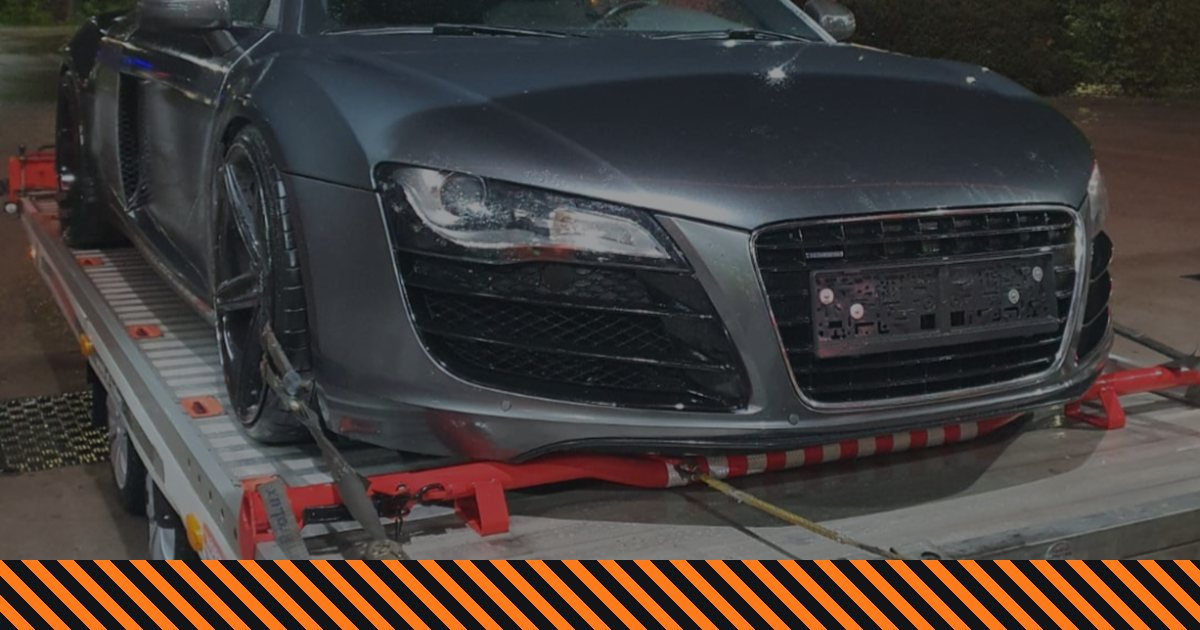
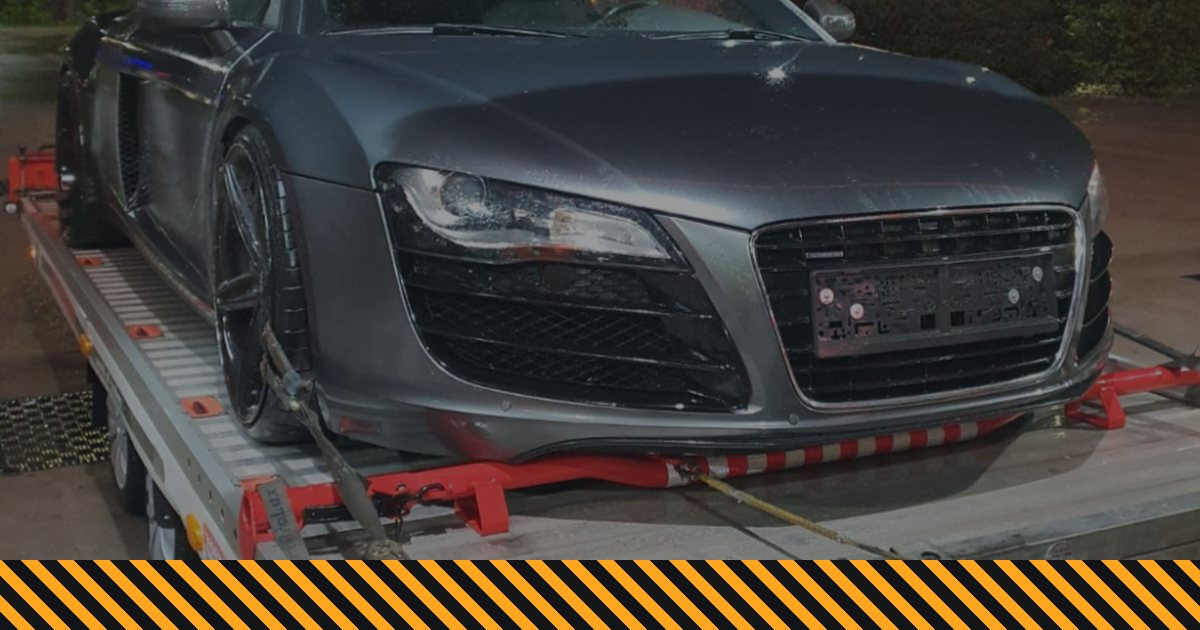
Rundumleuchte und Sirene entfernt, Orange heller und gelblicher

Changed region(s): [[0.0, 0.8746, 1.0, 1.0]]

diff --git a/css/base.css b/css/base.css
@@ -1,6 +1,6 @@
 /* ==========================================================================
    JS-Cartrans · Stylesheet
-   Richtung „Nachtschicht“: Asphalt, Kommunalorange, Reflexweiß.
+   Richtung „Nachtschicht“: Asphalt, Signalgelb-Orange, Reflexweiß.
    Warnstreifen (orange/asphalt) nur an Notruf-Elementen: Streifen = Notfall.
    ========================================================================== */
 
@@ -10,11 +10,11 @@
   --asphalt-3: #23272e;
   --naht: rgba(241, 241, 238, .11);
   --naht-hi: rgba(241, 241, 238, .22);
-  --orange: #ff7b1c;
-  --orange-tief: #e2600b;
-  --orange-hell: #ffb074;
-  --orange-dunkel: #a84400;
-  --glut: rgba(255, 123, 28, .35);
+  --orange: #ffa51f;
+  --orange-tief: #f08c00;
+  --orange-hell: #ffc861;
+  --orange-dunkel: #8f5300;
+  --glut: rgba(255,165,31, .35);
   --reflex: #f1f1ee;
   --leit: #a1a8b2;
   --beton: #e8e6e1;
@@ -143,7 +143,6 @@ button { cursor: pointer; }
 .kopf.ist-gescrollt { border-bottom-color: var(--naht); background: rgba(18, 20, 23, .92); }
 .kopf .wrap { height: 100%; display: flex; align-items: center; gap: 24px; }
 .marke { display: flex; align-items: center; gap: 11px; text-decoration: none; margin-right: auto; flex: none; }
-.marke svg.leuchte { width: 30px; height: 30px; }
 .marke b { display: block; font: 900 27px/.9 var(--display); letter-spacing: .02em; text-transform: uppercase; }
 .marke small { display: block; margin-top: 3px; font: 600 10.5px/1 var(--schmal); letter-spacing: .2em; text-transform: uppercase; color: var(--leit); }
 .nav { display: none; }
@@ -210,21 +209,12 @@ body { --leiste-h: calc(64px + env(safe-area-inset-bottom)); }
 .hero-foto { position: absolute; inset: 0; z-index: -2; }
 .hero-foto picture, .hero-foto img { width: 100%; height: 100%; object-fit: cover; object-position: 50% 60%; }
 .hero-foto::after { content: ""; position: absolute; inset: 0; background: linear-gradient(180deg, rgba(18,20,23,.35) 0%, rgba(18,20,23,.55) 38%, rgba(18,20,23,.94) 72%, var(--asphalt) 100%); }
-.rundum { position: absolute; z-index: 1; pointer-events: none; left: 50%; top: 14%; width: 260vmax; height: 260vmax; translate: -50% -50%;
-  background: conic-gradient(from 0deg, transparent 0 62%, rgba(255,123,28,.0) 64%, rgba(255,123,28,.42) 71%, rgba(255,160,80,.55) 73%, rgba(255,123,28,.0) 80%, transparent 100%);
-  mix-blend-mode: screen; animation: rundum 3.4s linear infinite; opacity: .7; filter: blur(2px);
-}
-@keyframes rundum { to { rotate: 360deg; } }
-.hero-glut { position: absolute; z-index: 1; pointer-events: none; left: 50%; top: 14%; width: 70vmax; height: 70vmax; translate: -50% -50%; border-radius: 50%;
-  background: radial-gradient(closest-side, rgba(255,123,28,.30), transparent 70%); animation: glut 1.7s ease-in-out infinite; }
-@keyframes glut { 0%, 100% { opacity: .35; } 50% { opacity: .75; } }
 .hero > .wrap { display: grid; align-content: end; }
 .hero-inhalt { padding-block: 34vh 44px; }
 .hero h1 { margin-bottom: 26px; }
-.hero h1 .panne { display: block; color: var(--orange); text-shadow: 0 0 40px rgba(255,123,28,.35); }
+.hero h1 .panne { display: block; color: var(--orange); }
 .hero .lead { margin-bottom: 30px; }
 .hero .live { margin-bottom: 20px; }
-.hero-leuchte { position: absolute; z-index: 2; left: 50%; top: 14%; translate: -50% -50%; width: 38px; height: 38px; }
 .hero-foto-text { display: none; }
 
 /* Laufband mit Leistungen */
@@ -256,7 +246,7 @@ body { --leiste-h: calc(64px + env(safe-area-inset-bottom)); }
 .vorfall-karte ul { list-style: none; display: grid; gap: 10px; }
 .vorfall-karte li { position: relative; padding-left: 30px; color: #d6d8dc; }
 .vorfall-karte li::before { content: ""; position: absolute; left: 0; top: .5em; width: 14px; height: 8px; border: solid var(--orange); border-width: 0 0 3px 3px; rotate: -45deg; }
-.vorfall-karte .tipp { margin: 0; padding: 16px 18px; border-left: 3px solid var(--orange); background: rgba(255,123,28,.07); font-size: 16px; color: #e3e4e6; }
+.vorfall-karte .tipp { margin: 0; padding: 16px 18px; border-left: 3px solid var(--orange); background: rgba(255,165,31,.07); font-size: 16px; color: #e3e4e6; }
 .vorfall-karte .tipp b { color: var(--orange-hell); font: 700 14px var(--schmal); letter-spacing: .12em; text-transform: uppercase; display: block; margin-bottom: 4px; }
 .vorfall-karte .vk-bild { position: relative; min-height: 240px; overflow: hidden; }
 .vorfall-karte .vk-bild picture, .vorfall-karte .vk-bild img { position: absolute; inset: 0; width: 100%; height: 100%; object-fit: cover; }
@@ -455,7 +445,7 @@ a.kachel .pfeil-link { margin-top: 8px; }
 }
 .feld textarea { min-height: 130px; resize: vertical; }
 .feld select { background-image: linear-gradient(45deg, transparent 50%, var(--orange) 50%), linear-gradient(135deg, var(--orange) 50%, transparent 50%); background-position: calc(100% - 22px) 50%, calc(100% - 16px) 50%; background-size: 6px 6px; background-repeat: no-repeat; padding-right: 44px; }
-.feld input:focus, .feld select:focus, .feld textarea:focus { outline: none; border-color: var(--orange); box-shadow: 0 0 0 3px rgba(255,123,28,.25); }
+.feld input:focus, .feld select:focus, .feld textarea:focus { outline: none; border-color: var(--orange); box-shadow: 0 0 0 3px rgba(255,165,31,.25); }
 .feld input[aria-invalid="true"], .feld textarea[aria-invalid="true"] { border-color: #ff5a5a; }
 .feld .fehler { font-size: 14px; color: #ff9a9a; }
 .feld .fehler:empty { display: none; }
@@ -470,7 +460,7 @@ a.kachel .pfeil-link { margin-top: 8px; }
 .honig { position: absolute !important; left: -9999px !important; width: 1px; height: 1px; overflow: hidden; }
 .einwilligung { display: grid; grid-template-columns: 26px 1fr; gap: 12px; font-size: 15px; color: #c9ccd1; }
 .einwilligung input { width: 22px; height: 22px; margin: 2px 0 0; accent-color: var(--orange); }
-.form-status { padding: 18px 20px; border-left: 4px solid var(--orange); background: rgba(255,123,28,.08); }
+.form-status { padding: 18px 20px; border-left: 4px solid var(--orange); background: rgba(255,165,31,.08); }
 .form-status[hidden] { display: none; }
 .form-status.ok { border-color: var(--gruen); background: rgba(61,220,132,.08); }
 .form-status h3 { font: 800 26px/1 var(--display); text-transform: uppercase; margin-bottom: 8px; }
@@ -508,11 +498,11 @@ a.kontakt-zeile:hover b { color: var(--orange); }
 .rechtstext dl { display: grid; grid-template-columns: minmax(140px, auto) 1fr; gap: 10px 24px; margin: 0; }
 .rechtstext dt { font: 600 14px/1.5 var(--schmal); letter-spacing: .1em; text-transform: uppercase; color: var(--leit); }
 .rechtstext dd { margin: 0; }
-.entwurf { margin-bottom: 36px; padding: 16px 20px 16px 24px; position: relative; background: rgba(255,123,28,.08); }
+.entwurf { margin-bottom: 36px; padding: 16px 20px 16px 24px; position: relative; background: rgba(255,165,31,.08); }
 .entwurf::before { content: ""; position: absolute; left: 0; top: 0; bottom: 0; width: 6px; background: var(--streifen); background-size: 25.46px 25.46px; }
 
 /* Platzhalter für Angaben, die die Firma noch liefern muss */
-.fehlt { background: rgba(255,123,28,.14); box-shadow: inset 0 -2px 0 var(--orange); padding: 0 .2em; }
+.fehlt { background: rgba(255,165,31,.14); box-shadow: inset 0 -2px 0 var(--orange); padding: 0 .2em; }
 
 /* ---------- Fußzeile ---------- */
 .fuss { background: #0c0d0f; padding-block: clamp(64px, 8vw, 110px) 34px; border-top: 1px solid var(--naht); }
@@ -546,9 +536,6 @@ a.kontakt-zeile:hover b { color: var(--orange); }
 .js [data-bild-reveal].ist-da::after { transform: scaleY(0); }
 .js [data-bild-reveal].ist-da img { transform: none; }
 
-/* Hero: Wort „Panne?“ blinkt zweimal auf wie eine Warnleuchte */
-.js .hero h1.ist-da .panne { animation: aufblitzen 1.1s steps(1, end) .5s 1 both; }
-@keyframes aufblitzen { 0% { opacity: 1; } 20% { opacity: .25; } 40% { opacity: 1; } 60% { opacity: .25; } 80%, 100% { opacity: 1; } }
 
 @media (max-width: 699px) {
   .karte .ort-label { font-size: 34px; }
@@ -595,18 +582,15 @@ a.kontakt-zeile:hover b { color: var(--orange); }
   .kopf-ruf .live i { background: var(--asphalt); } .kopf-ruf .live i::after { border-color: var(--asphalt); }
   .marke b { font-size: 31px; }
 
-  /* Hero als Doppelseite: Text links, Nachtfoto mit Rundumleuchte rechts */
+  /* Hero als Doppelseite: Text links, Nachtfoto rechts */
   .hero { grid-template-columns: minmax(0, 1fr); min-height: calc(100svh - var(--kopf-h)); }
   .hero .wrap { align-content: stretch; display: grid; grid-template-columns: 1.25fr .75fr; gap: clamp(40px, 5vw, 90px); align-items: stretch; }
   .hero-foto { position: relative; inset: auto; z-index: 0; grid-column: 2; grid-row: 1; margin-block: 28px 0; overflow: hidden; }
   .hero-foto::after { background: linear-gradient(180deg, rgba(18,20,23,0) 45%, rgba(18,20,23,.85) 100%), linear-gradient(90deg, rgba(18,20,23,.35), transparent 40%); }
   .hero-foto img { object-position: 50% 60%; }
-  .hero-foto .rundum { top: 8%; width: 320%; height: auto; aspect-ratio: 1; opacity: .75; z-index: 1; }
-  .hero-foto .hero-glut { top: 8%; width: 110%; z-index: 1; }
   .hero-inhalt { grid-column: 1; grid-row: 1; align-self: center; padding-block: 60px; }
   .hero h1 { font-size: clamp(88px, 10.5vw, 188px); }
-  .hero-leuchte { top: 8%; width: 46px; height: 46px; }
-  .hero-foto-text { display: flex; position: absolute; z-index: 2; left: 22px; right: 22px; bottom: 20px; display: flex; justify-content: space-between; font: 600 13px var(--schmal); letter-spacing: .14em; text-transform: uppercase; color: #d6d8dc; }
+    .hero-foto-text { display: flex; position: absolute; z-index: 2; left: 22px; right: 22px; bottom: 20px; display: flex; justify-content: space-between; font: 600 13px var(--schmal); letter-spacing: .14em; text-transform: uppercase; color: #d6d8dc; }
 
   .band-kopf { grid-template-columns: 1.1fr .9fr; align-items: end; column-gap: 60px; }
   .band-kopf .eyebrow { grid-column: 1 / -1; margin-bottom: -4px; }
@@ -640,12 +624,11 @@ a.kontakt-zeile:hover b { color: var(--orange); }
 @media (prefers-reduced-motion: reduce) {
   html { scroll-behavior: auto; }
   *, *::before, *::after { animation-duration: .001ms !important; animation-iteration-count: 1 !important; transition-duration: .001ms !important; transition-delay: 0ms !important; }
-  .rundum { display: none; }
   .laufband-spur { animation: none; flex-wrap: wrap; width: auto; }
   .laufband ul[aria-hidden] { display: none; }
 }
 
 @media print {
-  .kopf, .notrufleiste, .menue, .laufband, .rundum, .hero-glut { display: none !important; }
+  .kopf, .notrufleiste, .menue, .laufband { display: none !important; }
   body { background: #fff; color: #000; padding: 0; }
 }

diff --git a/index.html b/index.html
@@ -32,8 +32,7 @@
 <header class="kopf" id="kopf">
   <div class="wrap">
     <a class="marke" href="/" aria-label="JS-Cartrans, zur Startseite">
-      <svg class="leuchte" viewBox="0 0 32 32" aria-hidden="true"><path d="M6 25h20v4H6z" fill="currentColor"/><path d="M8.5 25a7.5 8 0 0 1 15 0z" fill="#ff7b1c"/><path d="M16 3v5M5 8l3.3 3.3M27 8l-3.3 3.3M1.5 18H6M26 18h4.5" stroke="#ff7b1c" stroke-width="2.2" stroke-linecap="round"/></svg>
-      <span><b>Cartrans</b><small>Abschleppdienst &amp; Transporte</small></span>
+      <span><b>Cart<span class="o">rans</span></b><small>Abschleppdienst &amp; Transporte</small></span>
     </a>
     <nav class="nav" aria-label="Hauptnavigation"><ul><li><a href="/pannenhilfe" class="notdienst">Notdienst</a></li><li><a href="/transporte">Transporte</a></li><li><a href="/autohaeuser">Autohäuser</a></li><li><a href="/einsaetze">Einsätze</a></li><li><a href="/ueber-uns">Über uns</a></li><li><a href="/kontakt">Kontakt</a></li></ul></nav>
     <a class="kopf-ruf" href="tel:+436601077052" data-zaehlen="anruf"><small class="live"><i></i>24/7</small><b>0660 107 70 52</b></a>
@@ -53,9 +52,6 @@
   <div class="wrap">
     <div class="hero-foto">
       <picture><source type="image/avif" srcset="/bilder/audi-r8-nacht-640.avif 640w, /bilder/audi-r8-nacht-1056.avif 1056w" sizes="(min-width:1100px) 36vw, 100vw"><source type="image/webp" srcset="/bilder/audi-r8-nacht-640.webp 640w, /bilder/audi-r8-nacht-1056.webp 1056w" sizes="(min-width:1100px) 36vw, 100vw"><img src="/bilder/audi-r8-nacht-1056.jpg" width="1056" height="1510" alt="Grauer Audi R8 nachts auf einem Autotransportanhänger unter Straßenlaternen" loading="eager" fetchpriority="high" decoding="async" style="object-position:50% 55%"></picture>
-      <div class="rundum" aria-hidden="true"></div>
-      <div class="hero-glut" aria-hidden="true"></div>
-      <svg class="hero-leuchte" viewBox="0 0 32 32" aria-hidden="true"><path d="M8.5 25a7.5 8 0 0 1 15 0z" fill="#ff7b1c"/><path d="M6 25h20v4H6z" fill="#23272e"/></svg>
       <div class="hero-foto-text" aria-hidden="true"><span>Einsatz bei Nacht</span><span>Audi R8</span></div>
     </div>
     <div class="hero-inhalt">
@@ -206,7 +202,7 @@
 
 <section class="band" aria-labelledby="gebiet-titel">
   <div class="wrap split split--umgekehrt">
-    <div data-reveal><figure class="karte" style="margin:0"><svg viewBox="0 0 1000 760" role="img" aria-labelledby="karte-titel karte-desc"><title id="karte-titel">Einsatzgebiet von JS-Cartrans</title><desc id="karte-desc">Schematische Karte mit Eggendorf in der Mitte und Ringen in 10, 25 und 40 Kilometern Entfernung. Eingezeichnet sind Wien, Mödling, Baden, Wiener Neustadt, Neunkirchen, Eisenstadt und weitere Orte sowie die A2, A3 und S4.</desc><defs><radialGradient id="gebiet-verlauf"><stop offset="0" stop-color="#ff7b1c" stop-opacity=".22"/><stop offset="1" stop-color="#ff7b1c" stop-opacity="0"/></radialGradient></defs><circle class="gebiet" cx="500" cy="400" r="200"/><circle class="ring" cx="500" cy="400" r="80"/><text class="ring-label" x="563" y="461">10 KM</text><circle class="ring" cx="500" cy="400" r="200"/><text class="ring-label" x="648" y="546">25 KM</text><circle class="ring" cx="500" cy="400" r="320"/><text class="ring-label" x="733" y="631">40 KM</text><path class="strasse" d="M514.9,138.5 L510.1,182.9 L504.2,227.4 L492.2,271.9 L474.3,316.4 L467.2,365.3 L474.3,414.2 L468.4,458.7 L426.6,501.4 L384.8,547.7 L353.8,587.7"/><rect class="strasse-schild" x="476" y="237" width="42" height="26" rx="4"/><text class="strasse-label" x="497" y="255" text-anchor="middle" fill="#fff">A2</text><path class="strasse" d="M468.4,458.7 L507.8,483.6 L551.9,510.3"/><rect class="strasse-schild" x="487" y="471" width="42" height="26" rx="4"/><text class="strasse-label" x="508" y="489" text-anchor="middle" fill="#fff">S4</text><path class="strasse" d="M511.9,236.3 L543.6,287.9 L568.6,341.3 L598.5,394.7 L634.3,445.4"/><rect class="strasse-schild" x="548" y="328" width="42" height="26" rx="4"/><text class="strasse-label" x="569" y="347" text-anchor="middle" fill="#fff">A3</text><g class="ortpunkt"><circle class="ort" cx="540.6" cy="95.8" r="4"/><text class="ort-label" x="552.6" y="102.8" text-anchor="start">Wien</text></g><g class="ortpunkt"><circle class="ort" cx="486.9" cy="204.3" r="4"/><text class="ort-label" x="474.9" y="211.3" text-anchor="end">Mödling</text></g><g class="ortpunkt nebenort"><circle class="ort" cx="506.6" cy="207.0" r="4"/><text class="ort-label" x="518.6" y="214.0" text-anchor="start">Wiener Neudorf</text></g><g class="ortpunkt nebenort"><circle class="ort" cx="488.1" cy="185.6" r="4"/><text class="ort-label" x="476.1" y="192.6" text-anchor="end">Brunn a. G.</text></g><g class="ortpunkt"><circle class="ort" cx="457.6" cy="275.5" r="4"/><text class="ort-label" x="445.6" y="282.5" text-anchor="end">Baden</text></g><g class="ortpunkt nebenort"><circle class="ort" cx="445.7" cy="311.0" r="4"/><text class="ort-label" x="433.7" y="318.0" text-anchor="end">Bad Vöslau</text></g><g class="ortpunkt nebenort"><circle class="ort" cx="559.1" cy="315.5" r="4"/><text class="ort-label" x="571.1" y="322.5" text-anchor="start">Ebreichsdorf</text></g><g class="ortpunkt"><circle class="ort" cx="463.0" cy="445.4" r="4"/><text class="ort-label" x="451.0" y="452.4" text-anchor="end">Wiener Neustadt</text></g><g class="ortpunkt"><circle class="ort" cx="365.7" cy="529.9" r="4"/><text class="ort-label" x="353.7" y="536.9" text-anchor="end">Neunkirchen</text></g><g class="ortpunkt nebenort"><circle class="ort" cx="554.9" cy="514.8" r="4"/><text class="ort-label" x="566.9" y="521.8" text-anchor="start">Mattersburg</text></g><g class="ortpunkt"><circle class="ort" cx="628.3" cy="418.7" r="4"/><text class="ort-label" x="640.3" y="425.7" text-anchor="start">Eisenstadt</text></g><g class="ortpunkt nebenort"><circle class="ort" cx="446.3" cy="343.1" r="4"/><text class="ort-label" x="434.3" y="350.1" text-anchor="end">Leobersdorf</text></g><circle class="zentrale-puls" cx="500" cy="400" r="14"/><circle class="zentrale" cx="500" cy="400" r="9"/><text class="zentrale-label" x="520" y="410">Eggendorf</text><text class="kompass" x="970" y="40" text-anchor="end">N ↑</text></svg></figure><p class="karte-hinweis">Schematische Darstellung. Einsätze darüber hinaus in ganz Österreich und im Ausland nach Absprache.</p></div>
+    <div data-reveal><figure class="karte" style="margin:0"><svg viewBox="0 0 1000 760" role="img" aria-labelledby="karte-titel karte-desc"><title id="karte-titel">Einsatzgebiet von JS-Cartrans</title><desc id="karte-desc">Schematische Karte mit Eggendorf in der Mitte und Ringen in 10, 25 und 40 Kilometern Entfernung. Eingezeichnet sind Wien, Mödling, Baden, Wiener Neustadt, Neunkirchen, Eisenstadt und weitere Orte sowie die A2, A3 und S4.</desc><defs><radialGradient id="gebiet-verlauf"><stop offset="0" stop-color="#ffa51f" stop-opacity=".22"/><stop offset="1" stop-color="#ffa51f" stop-opacity="0"/></radialGradient></defs><circle class="gebiet" cx="500" cy="400" r="200"/><circle class="ring" cx="500" cy="400" r="80"/><text class="ring-label" x="563" y="461">10 KM</text><circle class="ring" cx="500" cy="400" r="200"/><text class="ring-label" x="648" y="546">25 KM</text><circle class="ring" cx="500" cy="400" r="320"/><text class="ring-label" x="733" y="631">40 KM</text><path class="strasse" d="M514.9,138.5 L510.1,182.9 L504.2,227.4 L492.2,271.9 L474.3,316.4 L467.2,365.3 L474.3,414.2 L468.4,458.7 L426.6,501.4 L384.8,547.7 L353.8,587.7"/><rect class="strasse-schild" x="476" y="237" width="42" height="26" rx="4"/><text class="strasse-label" x="497" y="255" text-anchor="middle" fill="#fff">A2</text><path class="strasse" d="M468.4,458.7 L507.8,483.6 L551.9,510.3"/><rect class="strasse-schild" x="487" y="471" width="42" height="26" rx="4"/><text class="strasse-label" x="508" y="489" text-anchor="middle" fill="#fff">S4</text><path class="strasse" d="M511.9,236.3 L543.6,287.9 L568.6,341.3 L598.5,394.7 L634.3,445.4"/><rect class="strasse-schild" x="548" y="328" width="42" height="26" rx="4"/><text class="strasse-label" x="569" y="347" text-anchor="middle" fill="#fff">A3</text><g class="ortpunkt"><circle class="ort" cx="540.6" cy="95.8" r="4"/><text class="ort-label" x="552.6" y="102.8" text-anchor="start">Wien</text></g><g class="ortpunkt"><circle class="ort" cx="486.9" cy="204.3" r="4"/><text class="ort-label" x="474.9" y="211.3" text-anchor="end">Mödling</text></g><g class="ortpunkt nebenort"><circle class="ort" cx="506.6" cy="207.0" r="4"/><text class="ort-label" x="518.6" y="214.0" text-anchor="start">Wiener Neudorf</text></g><g class="ortpunkt nebenort"><circle class="ort" cx="488.1" cy="185.6" r="4"/><text class="ort-label" x="476.1" y="192.6" text-anchor="end">Brunn a. G.</text></g><g class="ortpunkt"><circle class="ort" cx="457.6" cy="275.5" r="4"/><text class="ort-label" x="445.6" y="282.5" text-anchor="end">Baden</text></g><g class="ortpunkt nebenort"><circle class="ort" cx="445.7" cy="311.0" r="4"/><text class="ort-label" x="433.7" y="318.0" text-anchor="end">Bad Vöslau</text></g><g class="ortpunkt nebenort"><circle class="ort" cx="559.1" cy="315.5" r="4"/><text class="ort-label" x="571.1" y="322.5" text-anchor="start">Ebreichsdorf</text></g><g class="ortpunkt"><circle class="ort" cx="463.0" cy="445.4" r="4"/><text class="ort-label" x="451.0" y="452.4" text-anchor="end">Wiener Neustadt</text></g><g class="ortpunkt"><circle class="ort" cx="365.7" cy="529.9" r="4"/><text class="ort-label" x="353.7" y="536.9" text-anchor="end">Neunkirchen</text></g><g class="ortpunkt nebenort"><circle class="ort" cx="554.9" cy="514.8" r="4"/><text class="ort-label" x="566.9" y="521.8" text-anchor="start">Mattersburg</text></g><g class="ortpunkt"><circle class="ort" cx="628.3" cy="418.7" r="4"/><text class="ort-label" x="640.3" y="425.7" text-anchor="start">Eisenstadt</text></g><g class="ortpunkt nebenort"><circle class="ort" cx="446.3" cy="343.1" r="4"/><text class="ort-label" x="434.3" y="350.1" text-anchor="end">Leobersdorf</text></g><circle class="zentrale-puls" cx="500" cy="400" r="14"/><circle class="zentrale" cx="500" cy="400" r="9"/><text class="zentrale-label" x="520" y="410">Eggendorf</text><text class="kompass" x="970" y="40" text-anchor="end">N ↑</text></svg></figure><p class="karte-hinweis">Schematische Darstellung. Einsätze darüber hinaus in ganz Österreich und im Ausland nach Absprache.</p></div>
     <div>
       <p class="eyebrow" data-reveal>Einsatzgebiet</p>
       <h2 id="gebiet-titel" class="d2" data-split>Von Eggendorf aus</h2>

diff --git a/kontakt.html b/kontakt.html
@@ -32,8 +32,7 @@
 <header class="kopf" id="kopf">
   <div class="wrap">
     <a class="marke" href="/" aria-label="JS-Cartrans, zur Startseite">
-      <svg class="leuchte" viewBox="0 0 32 32" aria-hidden="true"><path d="M6 25h20v4H6z" fill="currentColor"/><path d="M8.5 25a7.5 8 0 0 1 15 0z" fill="#ff7b1c"/><path d="M16 3v5M5 8l3.3 3.3M27 8l-3.3 3.3M1.5 18H6M26 18h4.5" stroke="#ff7b1c" stroke-width="2.2" stroke-linecap="round"/></svg>
-      <span><b>Cartrans</b><small>Abschleppdienst &amp; Transporte</small></span>
+      <span><b>Cart<span class="o">rans</span></b><small>Abschleppdienst &amp; Transporte</small></span>
     </a>
     <nav class="nav" aria-label="Hauptnavigation"><ul><li><a href="/pannenhilfe" class="notdienst">Notdienst</a></li><li><a href="/transporte">Transporte</a></li><li><a href="/autohaeuser">Autohäuser</a></li><li><a href="/einsaetze">Einsätze</a></li><li><a href="/ueber-uns">Über uns</a></li><li><a href="/kontakt" aria-current="page">Kontakt</a></li></ul></nav>
     <a class="kopf-ruf" href="tel:+436601077052" data-zaehlen="anruf"><small class="live"><i></i>24/7</small><b>0660 107 70 52</b></a>
@@ -95,7 +94,7 @@
 
 <section class="band band--tief" aria-labelledby="gebiet-titel">
   <div class="wrap split split--umgekehrt">
-    <div data-reveal><figure class="karte" style="margin:0"><svg viewBox="0 0 1000 760" role="img" aria-labelledby="karte-titel karte-desc"><title id="karte-titel">Einsatzgebiet von JS-Cartrans</title><desc id="karte-desc">Schematische Karte mit Eggendorf in der Mitte und Ringen in 10, 25 und 40 Kilometern Entfernung. Eingezeichnet sind Wien, Mödling, Baden, Wiener Neustadt, Neunkirchen, Eisenstadt und weitere Orte sowie die A2, A3 und S4.</desc><defs><radialGradient id="gebiet-verlauf"><stop offset="0" stop-color="#ff7b1c" stop-opacity=".22"/><stop offset="1" stop-color="#ff7b1c" stop-opacity="0"/></radialGradient></defs><circle class="gebiet" cx="500" cy="400" r="200"/><circle class="ring" cx="500" cy="400" r="80"/><text class="ring-label" x="563" y="461">10 KM</text><circle class="ring" cx="500" cy="400" r="200"/><text class="ring-label" x="648" y="546">25 KM</text><circle class="ring" cx="500" cy="400" r="320"/><text class="ring-label" x="733" y="631">40 KM</text><path class="strasse" d="M514.9,138.5 L510.1,182.9 L504.2,227.4 L492.2,271.9 L474.3,316.4 L467.2,365.3 L474.3,414.2 L468.4,458.7 L426.6,501.4 L384.8,547.7 L353.8,587.7"/><rect class="strasse-schild" x="476" y="237" width="42" height="26" rx="4"/><text class="strasse-label" x="497" y="255" text-anchor="middle" fill="#fff">A2</text><path class="strasse" d="M468.4,458.7 L507.8,483.6 L551.9,510.3"/><rect class="strasse-schild" x="487" y="471" width="42" height="26" rx="4"/><text class="strasse-label" x="508" y="489" text-anchor="middle" fill="#fff">S4</text><path class="strasse" d="M511.9,236.3 L543.6,287.9 L568.6,341.3 L598.5,394.7 L634.3,445.4"/><rect class="strasse-schild" x="548" y="328" width="42" height="26" rx="4"/><text class="strasse-label" x="569" y="347" text-anchor="middle" fill="#fff">A3</text><g class="ortpunkt"><circle class="ort" cx="540.6" cy="95.8" r="4"/><text class="ort-label" x="552.6" y="102.8" text-anchor="start">Wien</text></g><g class="ortpunkt"><circle class="ort" cx="486.9" cy="204.3" r="4"/><text class="ort-label" x="474.9" y="211.3" text-anchor="end">Mödling</text></g><g class="ortpunkt nebenort"><circle class="ort" cx="506.6" cy="207.0" r="4"/><text class="ort-label" x="518.6" y="214.0" text-anchor="start">Wiener Neudorf</text></g><g class="ortpunkt nebenort"><circle class="ort" cx="488.1" cy="185.6" r="4"/><text class="ort-label" x="476.1" y="192.6" text-anchor="end">Brunn a. G.</text></g><g class="ortpunkt"><circle class="ort" cx="457.6" cy="275.5" r="4"/><text class="ort-label" x="445.6" y="282.5" text-anchor="end">Baden</text></g><g class="ortpunkt nebenort"><circle class="ort" cx="445.7" cy="311.0" r="4"/><text class="ort-label" x="433.7" y="318.0" text-anchor="end">Bad Vöslau</text></g><g class="ortpunkt nebenort"><circle class="ort" cx="559.1" cy="315.5" r="4"/><text class="ort-label" x="571.1" y="322.5" text-anchor="start">Ebreichsdorf</text></g><g class="ortpunkt"><circle class="ort" cx="463.0" cy="445.4" r="4"/><text class="ort-label" x="451.0" y="452.4" text-anchor="end">Wiener Neustadt</text></g><g class="ortpunkt"><circle class="ort" cx="365.7" cy="529.9" r="4"/><text class="ort-label" x="353.7" y="536.9" text-anchor="end">Neunkirchen</text></g><g class="ortpunkt nebenort"><circle class="ort" cx="554.9" cy="514.8" r="4"/><text class="ort-label" x="566.9" y="521.8" text-anchor="start">Mattersburg</text></g><g class="ortpunkt"><circle class="ort" cx="628.3" cy="418.7" r="4"/><text class="ort-label" x="640.3" y="425.7" text-anchor="start">Eisenstadt</text></g><g class="ortpunkt nebenort"><circle class="ort" cx="446.3" cy="343.1" r="4"/><text class="ort-label" x="434.3" y="350.1" text-anchor="end">Leobersdorf</text></g><circle class="zentrale-puls" cx="500" cy="400" r="14"/><circle class="zentrale" cx="500" cy="400" r="9"/><text class="zentrale-label" x="520" y="410">Eggendorf</text><text class="kompass" x="970" y="40" text-anchor="end">N ↑</text></svg></figure><p class="karte-hinweis">Schematische Darstellung. Einsätze darüber hinaus in ganz Österreich und im Ausland nach Absprache.</p></div>
+    <div data-reveal><figure class="karte" style="margin:0"><svg viewBox="0 0 1000 760" role="img" aria-labelledby="karte-titel karte-desc"><title id="karte-titel">Einsatzgebiet von JS-Cartrans</title><desc id="karte-desc">Schematische Karte mit Eggendorf in der Mitte und Ringen in 10, 25 und 40 Kilometern Entfernung. Eingezeichnet sind Wien, Mödling, Baden, Wiener Neustadt, Neunkirchen, Eisenstadt und weitere Orte sowie die A2, A3 und S4.</desc><defs><radialGradient id="gebiet-verlauf"><stop offset="0" stop-color="#ffa51f" stop-opacity=".22"/><stop offset="1" stop-color="#ffa51f" stop-opacity="0"/></radialGradient></defs><circle class="gebiet" cx="500" cy="400" r="200"/><circle class="ring" cx="500" cy="400" r="80"/><text class="ring-label" x="563" y="461">10 KM</text><circle class="ring" cx="500" cy="400" r="200"/><text class="ring-label" x="648" y="546">25 KM</text><circle class="ring" cx="500" cy="400" r="320"/><text class="ring-label" x="733" y="631">40 KM</text><path class="strasse" d="M514.9,138.5 L510.1,182.9 L504.2,227.4 L492.2,271.9 L474.3,316.4 L467.2,365.3 L474.3,414.2 L468.4,458.7 L426.6,501.4 L384.8,547.7 L353.8,587.7"/><rect class="strasse-schild" x="476" y="237" width="42" height="26" rx="4"/><text class="strasse-label" x="497" y="255" text-anchor="middle" fill="#fff">A2</text><path class="strasse" d="M468.4,458.7 L507.8,483.6 L551.9,510.3"/><rect class="strasse-schild" x="487" y="471" width="42" height="26" rx="4"/><text class="strasse-label" x="508" y="489" text-anchor="middle" fill="#fff">S4</text><path class="strasse" d="M511.9,236.3 L543.6,287.9 L568.6,341.3 L598.5,394.7 L634.3,445.4"/><rect class="strasse-schild" x="548" y="328" width="42" height="26" rx="4"/><text class="strasse-label" x="569" y="347" text-anchor="middle" fill="#fff">A3</text><g class="ortpunkt"><circle class="ort" cx="540.6" cy="95.8" r="4"/><text class="ort-label" x="552.6" y="102.8" text-anchor="start">Wien</text></g><g class="ortpunkt"><circle class="ort" cx="486.9" cy="204.3" r="4"/><text class="ort-label" x="474.9" y="211.3" text-anchor="end">Mödling</text></g><g class="ortpunkt nebenort"><circle class="ort" cx="506.6" cy="207.0" r="4"/><text class="ort-label" x="518.6" y="214.0" text-anchor="start">Wiener Neudorf</text></g><g class="ortpunkt nebenort"><circle class="ort" cx="488.1" cy="185.6" r="4"/><text class="ort-label" x="476.1" y="192.6" text-anchor="end">Brunn a. G.</text></g><g class="ortpunkt"><circle class="ort" cx="457.6" cy="275.5" r="4"/><text class="ort-label" x="445.6" y="282.5" text-anchor="end">Baden</text></g><g class="ortpunkt nebenort"><circle class="ort" cx="445.7" cy="311.0" r="4"/><text class="ort-label" x="433.7" y="318.0" text-anchor="end">Bad Vöslau</text></g><g class="ortpunkt nebenort"><circle class="ort" cx="559.1" cy="315.5" r="4"/><text class="ort-label" x="571.1" y="322.5" text-anchor="start">Ebreichsdorf</text></g><g class="ortpunkt"><circle class="ort" cx="463.0" cy="445.4" r="4"/><text class="ort-label" x="451.0" y="452.4" text-anchor="end">Wiener Neustadt</text></g><g class="ortpunkt"><circle class="ort" cx="365.7" cy="529.9" r="4"/><text class="ort-label" x="353.7" y="536.9" text-anchor="end">Neunkirchen</text></g><g class="ortpunkt nebenort"><circle class="ort" cx="554.9" cy="514.8" r="4"/><text class="ort-label" x="566.9" y="521.8" text-anchor="start">Mattersburg</text></g><g class="ortpunkt"><circle class="ort" cx="628.3" cy="418.7" r="4"/><text class="ort-label" x="640.3" y="425.7" text-anchor="start">Eisenstadt</text></g><g class="ortpunkt nebenort"><circle class="ort" cx="446.3" cy="343.1" r="4"/><text class="ort-label" x="434.3" y="350.1" text-anchor="end">Leobersdorf</text></g><circle class="zentrale-puls" cx="500" cy="400" r="14"/><circle class="zentrale" cx="500" cy="400" r="9"/><text class="zentrale-label" x="520" y="410">Eggendorf</text><text class="kompass" x="970" y="40" text-anchor="end">N ↑</text></svg></figure><p class="karte-hinweis">Schematische Darstellung. Einsätze darüber hinaus in ganz Österreich und im Ausland nach Absprache.</p></div>
     <div>
       <p class="eyebrow" data-reveal>Einsatzgebiet</p>
       <h2 id="gebiet-titel" class="d2" data-split>Von Eggendorf aus</h2>

diff --git a/betreiber/offene-punkte.html b/betreiber/offene-punkte.html
@@ -10,7 +10,7 @@
 <style>
 :root{
   --asphalt:#121417; --panel:#1a1d22; --panel-hi:#23272e; --line:rgba(241,241,238,.11); --line-hi:rgba(241,241,238,.22);
-  --text:#d6d8dc; --muted:#a1a8b2; --weiss:#f1f1ee; --orange:#ff7b1c; --orange-hell:#ffb074; --ok:#3ddc84;
+  --text:#d6d8dc; --muted:#a1a8b2; --weiss:#f1f1ee; --orange:#ffa51f; --orange-hell:#ffc861; --ok:#3ddc84;
   --display:"Big Shoulders Display","Arial Narrow",Impact,sans-serif; --text-f:"Barlow",system-ui,sans-serif; --schmal:"Barlow Condensed","Arial Narrow",sans-serif;
   --streifen:repeating-linear-gradient(-45deg,var(--orange) 0 9px,var(--asphalt) 9px 18px);
   color-scheme:dark;
@@ -18,7 +18,7 @@
 *{box-sizing:border-box}
 html{background:var(--asphalt)}
 body{margin:0;background:var(--asphalt);color:var(--text);font:400 16px/1.55 var(--text-f);padding-inline:clamp(16px,4vw,40px);padding-block:0 72px;
-  background-image:radial-gradient(1000px 520px at 88% -8%,rgba(255,123,28,.13),transparent 60%)}
+  background-image:radial-gradient(1000px 520px at 88% -8%,rgba(255,165,31,.13),transparent 60%)}
 .wrap{max-width:920px;margin:0 auto}
 a{color:var(--orange-hell)}
 :focus-visible{outline:3px solid var(--orange);outline-offset:3px}
@@ -62,7 +62,7 @@ ul.punkte{list-style:none;margin:0;padding:0}
 ul.punkte li{border-top:1px solid var(--line)}
 ul.punkte li:last-child{border-bottom:1px solid var(--line)}
 label.punkt{display:grid;grid-template-columns:28px 1fr;gap:14px;align-items:start;padding:14px 6px 14px 2px;cursor:pointer;transition:background .2s}
-label.punkt:hover{background:linear-gradient(90deg,rgba(255,123,28,.09),transparent 70%)}
+label.punkt:hover{background:linear-gradient(90deg,rgba(255,165,31,.09),transparent 70%)}
 label.punkt input{position:absolute;opacity:0;width:1px;height:1px}
 .box{width:24px;height:24px;margin-top:1px;position:relative;border:2px solid var(--line-hi);background:#16191d;transition:background .2s,border-color .2s}
 .box::after{content:"";position:absolute;left:6px;top:1px;width:7px;height:13px;border:solid var(--asphalt);border-width:0 3px 3px 0;rotate:45deg;opacity:0;transition:opacity .15s}
@@ -72,17 +72,17 @@ label.punkt input:focus-visible + .box{outline:3px solid var(--orange);outline-o
 label.punkt input:disabled ~ *{cursor:default}
 .txt{color:var(--text)}
 .txt small{display:block;margin-top:3px;color:var(--muted);font-size:14px}
-label.punkt input:checked ~ .txt{color:var(--muted);text-decoration:line-through;text-decoration-color:rgba(255,123,28,.6)}
+label.punkt input:checked ~ .txt{color:var(--muted);text-decoration:line-through;text-decoration-color:rgba(255,165,31,.6)}
 .fuss{margin-top:48px;display:grid;gap:8px;font-size:14px;color:var(--muted)}
 .fuss b{color:var(--text);font-weight:600}
 @media (prefers-reduced-motion:reduce){*{transition:none!important}}
-@media print{body{background:#fff;color:#111;padding:0}.index,.hinweis{display:none}h1,h2{color:#111}.txt,.lead,.s-lead{color:#222}.box{border-color:#555;background:#fff}label.punkt input:checked + .box{background:#ff7b1c}}
+@media print{body{background:#fff;color:#111;padding:0}.index,.hinweis{display:none}h1,h2{color:#111}.txt,.lead,.s-lead{color:#222}.box{border-color:#555;background:#fff}label.punkt input:checked + .box{background:#ffa51f}}
 </style>
 </head>
 <body>
 <div class="wrap">
   <header class="top">
-    <a class="marke" href="/"><svg viewBox="0 0 32 32" aria-hidden="true"><path d="M6 25h20v4H6z" fill="#f1f1ee"/><path d="M8.5 25a7.5 8 0 0 1 15 0z" fill="#ff7b1c"/><path d="M16 3v5M5 8l3.3 3.3M27 8l-3.3 3.3M1.5 18H6M26 18h4.5" stroke="#ff7b1c" stroke-width="2.2" stroke-linecap="round"/></svg><b>Cartrans</b></a>
+    <a class="marke" href="/"><b>Cart<span style="color:var(--orange)">rans</span></b></a>
     <span class="stand" id="stand">Stand 22.09.2026</span>
   </header>
   <div class="hero">
@@ -152,13 +152,13 @@ label.punkt input:checked ~ .txt{color:var(--muted);text-decoration:line-through
     {"id": "bilder-1", "t": "Auf vielen Fotos sind Kennzeichen von Kundenfahrzeugen lesbar: unkenntlich machen lassen oder schriftlich freigeben"},
     {"id": "bilder-2", "t": "Bestätigen, dass die Fotos der Kundenfahrzeuge (z. B. Lamborghini, Audi R8, Mustang) veröffentlicht werden dürfen"}]},
    {"label": "Logo", "items": [
-    {"id": "bilder-7", "t": "Gibt es ein Logo? Sonst die vorgeschlagene Wortmarke „Cartrans“ mit Rundumleuchte freigeben"}]}]},
+    {"id": "bilder-7", "t": "Gibt es ein Logo? Sonst die vorgeschlagene Wortmarke „Cartrans“ freigeben"}]}]},
  {"id": "neufotos", "title": "Neue Fotos", "start": false,
   "lead": "Eigene, neue Fotos machen die Seite noch persönlicher. Wir beraten gerne, wie sie mit dem Handy gelingen.",
   "groups": [
    {"label": null, "items": [
     {"id": "bilder-3", "t": "Inhaberin oder Team mit Fahrzeug, für „Über uns“", "h": "Mit Einverständnis der abgebildeten Personen"},
-    {"id": "bilder-4", "t": "Ein Einsatz bei Nacht mit eingeschalteter Rundumleuchte, als Titelbild"},
+    {"id": "bilder-4", "t": "Ein Einsatz bei Nacht als Titelbild"},
     {"id": "bilder-5", "t": "Der ganze Fuhrpark in einer Reihe"},
     {"id": "bilder-6", "t": "Querformat-Fotos (Handy quer halten) für breite Bildschirme"}]}]},
  {"id": "partner", "title": "Partner", "start": true,

diff --git a/autohaeuser.html b/autohaeuser.html
@@ -32,8 +32,7 @@
 <header class="kopf" id="kopf">
   <div class="wrap">
     <a class="marke" href="/" aria-label="JS-Cartrans, zur Startseite">
-      <svg class="leuchte" viewBox="0 0 32 32" aria-hidden="true"><path d="M6 25h20v4H6z" fill="currentColor"/><path d="M8.5 25a7.5 8 0 0 1 15 0z" fill="#ff7b1c"/><path d="M16 3v5M5 8l3.3 3.3M27 8l-3.3 3.3M1.5 18H6M26 18h4.5" stroke="#ff7b1c" stroke-width="2.2" stroke-linecap="round"/></svg>
-      <span><b>Cartrans</b><small>Abschleppdienst &amp; Transporte</small></span>
+      <span><b>Cart<span class="o">rans</span></b><small>Abschleppdienst &amp; Transporte</small></span>
     </a>
     <nav class="nav" aria-label="Hauptnavigation"><ul><li><a href="/pannenhilfe" class="notdienst">Notdienst</a></li><li><a href="/transporte">Transporte</a></li><li><a href="/autohaeuser" aria-current="page">Autohäuser</a></li><li><a href="/einsaetze">Einsätze</a></li><li><a href="/ueber-uns">Über uns</a></li><li><a href="/kontakt">Kontakt</a></li></ul></nav>
     <a class="kopf-ruf" href="tel:+436601077052" data-zaehlen="anruf"><small class="live"><i></i>24/7</small><b>0660 107 70 52</b></a>

diff --git a/einsaetze.html b/einsaetze.html
@@ -32,8 +32,7 @@
 <header class="kopf" id="kopf">
   <div class="wrap">
     <a class="marke" href="/" aria-label="JS-Cartrans, zur Startseite">
-      <svg class="leuchte" viewBox="0 0 32 32" aria-hidden="true"><path d="M6 25h20v4H6z" fill="currentColor"/><path d="M8.5 25a7.5 8 0 0 1 15 0z" fill="#ff7b1c"/><path d="M16 3v5M5 8l3.3 3.3M27 8l-3.3 3.3M1.5 18H6M26 18h4.5" stroke="#ff7b1c" stroke-width="2.2" stroke-linecap="round"/></svg>
-      <span><b>Cartrans</b><small>Abschleppdienst &amp; Transporte</small></span>
+      <span><b>Cart<span class="o">rans</span></b><small>Abschleppdienst &amp; Transporte</small></span>
     </a>
     <nav class="nav" aria-label="Hauptnavigation"><ul><li><a href="/pannenhilfe" class="notdienst">Notdienst</a></li><li><a href="/transporte">Transporte</a></li><li><a href="/autohaeuser">Autohäuser</a></li><li><a href="/einsaetze" aria-current="page">Einsätze</a></li><li><a href="/ueber-uns">Über uns</a></li><li><a href="/kontakt">Kontakt</a></li></ul></nav>
     <a class="kopf-ruf" href="tel:+436601077052" data-zaehlen="anruf"><small class="live"><i></i>24/7</small><b>0660 107 70 52</b></a>

diff --git a/pannenhilfe.html b/pannenhilfe.html
@@ -32,8 +32,7 @@
 <header class="kopf" id="kopf">
   <div class="wrap">
     <a class="marke" href="/" aria-label="JS-Cartrans, zur Startseite">
-      <svg class="leuchte" viewBox="0 0 32 32" aria-hidden="true"><path d="M6 25h20v4H6z" fill="currentColor"/><path d="M8.5 25a7.5 8 0 0 1 15 0z" fill="#ff7b1c"/><path d="M16 3v5M5 8l3.3 3.3M27 8l-3.3 3.3M1.5 18H6M26 18h4.5" stroke="#ff7b1c" stroke-width="2.2" stroke-linecap="round"/></svg>
-      <span><b>Cartrans</b><small>Abschleppdienst &amp; Transporte</small></span>
+      <span><b>Cart<span class="o">rans</span></b><small>Abschleppdienst &amp; Transporte</small></span>
     </a>
     <nav class="nav" aria-label="Hauptnavigation"><ul><li><a href="/pannenhilfe" aria-current="page" class="notdienst">Notdienst</a></li><li><a href="/transporte">Transporte</a></li><li><a href="/autohaeuser">Autohäuser</a></li><li><a href="/einsaetze">Einsätze</a></li><li><a href="/ueber-uns">Über uns</a></li><li><a href="/kontakt">Kontakt</a></li></ul></nav>
     <a class="kopf-ruf" href="tel:+436601077052" data-zaehlen="anruf"><small class="live"><i></i>24/7</small><b>0660 107 70 52</b></a>

diff --git a/transporte.html b/transporte.html
@@ -32,8 +32,7 @@
 <header class="kopf" id="kopf">
   <div class="wrap">
     <a class="marke" href="/" aria-label="JS-Cartrans, zur Startseite">
-      <svg class="leuchte" viewBox="0 0 32 32" aria-hidden="true"><path d="M6 25h20v4H6z" fill="currentColor"/><path d="M8.5 25a7.5 8 0 0 1 15 0z" fill="#ff7b1c"/><path d="M16 3v5M5 8l3.3 3.3M27 8l-3.3 3.3M1.5 18H6M26 18h4.5" stroke="#ff7b1c" stroke-width="2.2" stroke-linecap="round"/></svg>
-      <span><b>Cartrans</b><small>Abschleppdienst &amp; Transporte</small></span>
+      <span><b>Cart<span class="o">rans</span></b><small>Abschleppdienst &amp; Transporte</small></span>
     </a>
     <nav class="nav" aria-label="Hauptnavigation"><ul><li><a href="/pannenhilfe" class="notdienst">Notdienst</a></li><li><a href="/transporte" aria-current="page">Transporte</a></li><li><a href="/autohaeuser">Autohäuser</a></li><li><a href="/einsaetze">Einsätze</a></li><li><a href="/ueber-uns">Über uns</a></li><li><a href="/kontakt">Kontakt</a></li></ul></nav>
     <a class="kopf-ruf" href="tel:+436601077052" data-zaehlen="anruf"><small class="live"><i></i>24/7</small><b>0660 107 70 52</b></a>

diff --git a/ueber-uns.html b/ueber-uns.html
@@ -32,8 +32,7 @@
 <header class="kopf" id="kopf">
   <div class="wrap">
     <a class="marke" href="/" aria-label="JS-Cartrans, zur Startseite">
-      <svg class="leuchte" viewBox="0 0 32 32" aria-hidden="true"><path d="M6 25h20v4H6z" fill="currentColor"/><path d="M8.5 25a7.5 8 0 0 1 15 0z" fill="#ff7b1c"/><path d="M16 3v5M5 8l3.3 3.3M27 8l-3.3 3.3M1.5 18H6M26 18h4.5" stroke="#ff7b1c" stroke-width="2.2" stroke-linecap="round"/></svg>
-      <span><b>Cartrans</b><small>Abschleppdienst &amp; Transporte</small></span>
+      <span><b>Cart<span class="o">rans</span></b><small>Abschleppdienst &amp; Transporte</small></span>
     </a>
     <nav class="nav" aria-label="Hauptnavigation"><ul><li><a href="/pannenhilfe" class="notdienst">Notdienst</a></li><li><a href="/transporte">Transporte</a></li><li><a href="/autohaeuser">Autohäuser</a></li><li><a href="/einsaetze">Einsätze</a></li><li><a href="/ueber-uns" aria-current="page">Über uns</a></li><li><a href="/kontakt">Kontakt</a></li></ul></nav>
     <a class="kopf-ruf" href="tel:+436601077052" data-zaehlen="anruf"><small class="live"><i></i>24/7</small><b>0660 107 70 52</b></a>

diff --git a/404.html b/404.html
@@ -32,8 +32,7 @@
 <header class="kopf" id="kopf">
   <div class="wrap">
     <a class="marke" href="/" aria-label="JS-Cartrans, zur Startseite">
-      <svg class="leuchte" viewBox="0 0 32 32" aria-hidden="true"><path d="M6 25h20v4H6z" fill="currentColor"/><path d="M8.5 25a7.5 8 0 0 1 15 0z" fill="#ff7b1c"/><path d="M16 3v5M5 8l3.3 3.3M27 8l-3.3 3.3M1.5 18H6M26 18h4.5" stroke="#ff7b1c" stroke-width="2.2" stroke-linecap="round"/></svg>
-      <span><b>Cartrans</b><small>Abschleppdienst &amp; Transporte</small></span>
+      <span><b>Cart<span class="o">rans</span></b><small>Abschleppdienst &amp; Transporte</small></span>
     </a>
     <nav class="nav" aria-label="Hauptnavigation"><ul><li><a href="/pannenhilfe" class="notdienst">Notdienst</a></li><li><a href="/transporte">Transporte</a></li><li><a href="/autohaeuser">Autohäuser</a></li><li><a href="/einsaetze">Einsätze</a></li><li><a href="/ueber-uns">Über uns</a></li><li><a href="/kontakt">Kontakt</a></li></ul></nav>
     <a class="kopf-ruf" href="tel:+436601077052" data-zaehlen="anruf"><small class="live"><i></i>24/7</small><b>0660 107 70 52</b></a>

diff --git a/abschleppdienst-baden.html b/abschleppdienst-baden.html
@@ -32,8 +32,7 @@
 <header class="kopf" id="kopf">
   <div class="wrap">
     <a class="marke" href="/" aria-label="JS-Cartrans, zur Startseite">
-      <svg class="leuchte" viewBox="0 0 32 32" aria-hidden="true"><path d="M6 25h20v4H6z" fill="currentColor"/><path d="M8.5 25a7.5 8 0 0 1 15 0z" fill="#ff7b1c"/><path d="M16 3v5M5 8l3.3 3.3M27 8l-3.3 3.3M1.5 18H6M26 18h4.5" stroke="#ff7b1c" stroke-width="2.2" stroke-linecap="round"/></svg>
-      <span><b>Cartrans</b><small>Abschleppdienst &amp; Transporte</small></span>
+      <span><b>Cart<span class="o">rans</span></b><small>Abschleppdienst &amp; Transporte</small></span>
     </a>
     <nav class="nav" aria-label="Hauptnavigation"><ul><li><a href="/pannenhilfe" class="notdienst">Notdienst</a></li><li><a href="/transporte">Transporte</a></li><li><a href="/autohaeuser">Autohäuser</a></li><li><a href="/einsaetze">Einsätze</a></li><li><a href="/ueber-uns">Über uns</a></li><li><a href="/kontakt">Kontakt</a></li></ul></nav>
     <a class="kopf-ruf" href="tel:+436601077052" data-zaehlen="anruf"><small class="live"><i></i>24/7</small><b>0660 107 70 52</b></a>

diff --git a/abschleppdienst-moedling.html b/abschleppdienst-moedling.html
@@ -32,8 +32,7 @@
 <header class="kopf" id="kopf">
   <div class="wrap">
     <a class="marke" href="/" aria-label="JS-Cartrans, zur Startseite">
-      <svg class="leuchte" viewBox="0 0 32 32" aria-hidden="true"><path d="M6 25h20v4H6z" fill="currentColor"/><path d="M8.5 25a7.5 8 0 0 1 15 0z" fill="#ff7b1c"/><path d="M16 3v5M5 8l3.3 3.3M27 8l-3.3 3.3M1.5 18H6M26 18h4.5" stroke="#ff7b1c" stroke-width="2.2" stroke-linecap="round"/></svg>
-      <span><b>Cartrans</b><small>Abschleppdienst &amp; Transporte</small></span>
+      <span><b>Cart<span class="o">rans</span></b><small>Abschleppdienst &amp; Transporte</small></span>
     </a>
     <nav class="nav" aria-label="Hauptnavigation"><ul><li><a href="/pannenhilfe" class="notdienst">Notdienst</a></li><li><a href="/transporte">Transporte</a></li><li><a href="/autohaeuser">Autohäuser</a></li><li><a href="/einsaetze">Einsätze</a></li><li><a href="/ueber-uns">Über uns</a></li><li><a href="/kontakt">Kontakt</a></li></ul></nav>
     <a class="kopf-ruf" href="tel:+436601077052" data-zaehlen="anruf"><small class="live"><i></i>24/7</small><b>0660 107 70 52</b></a>
